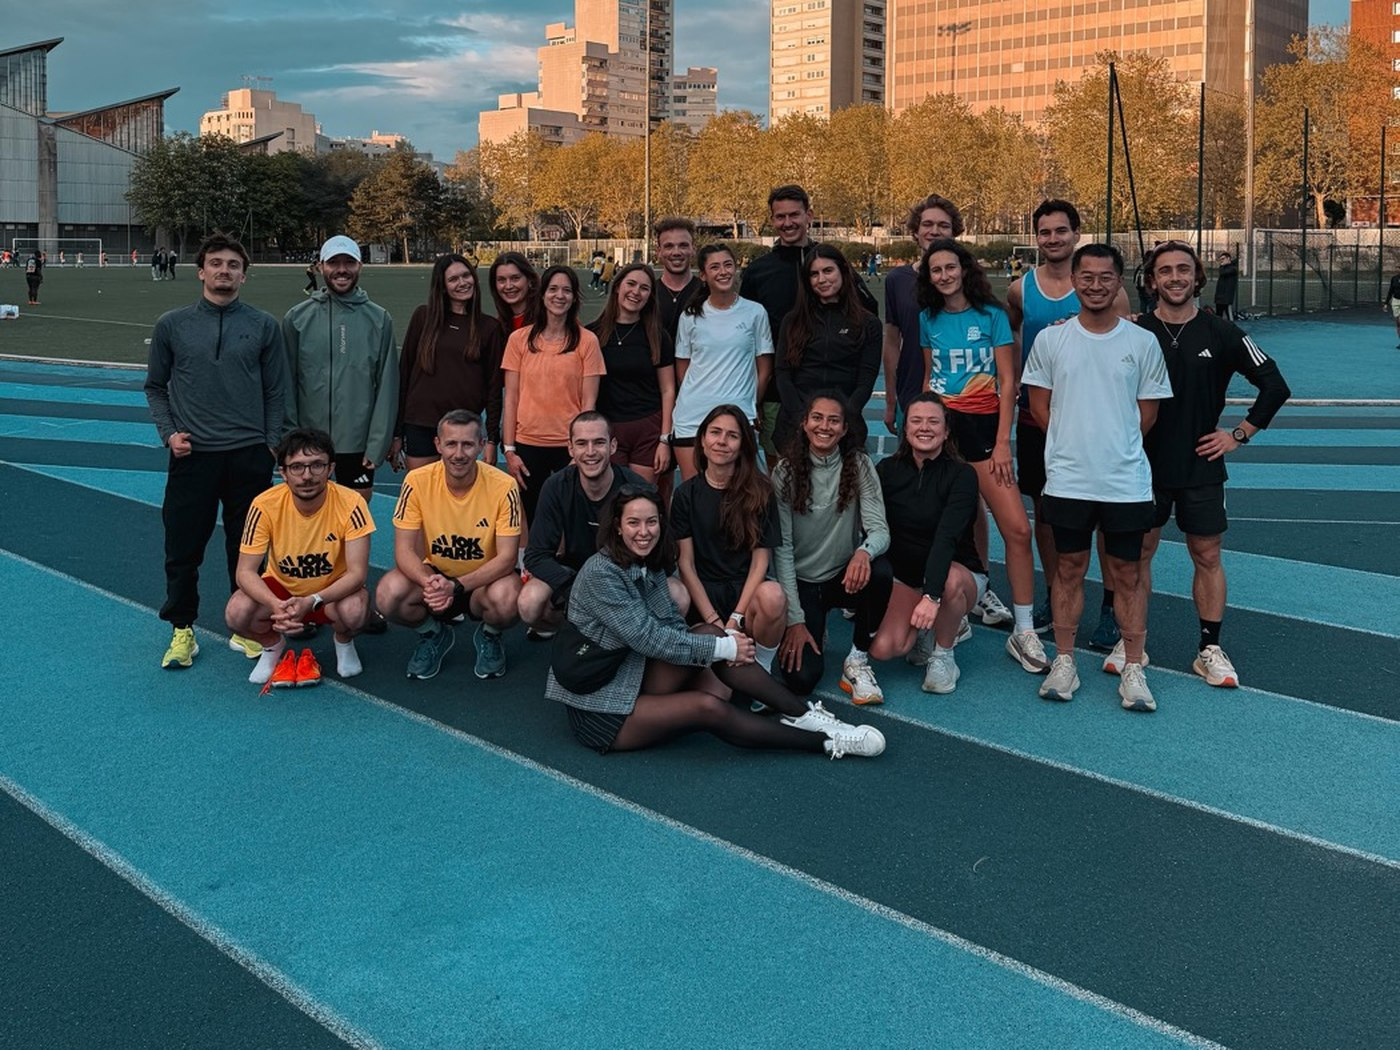
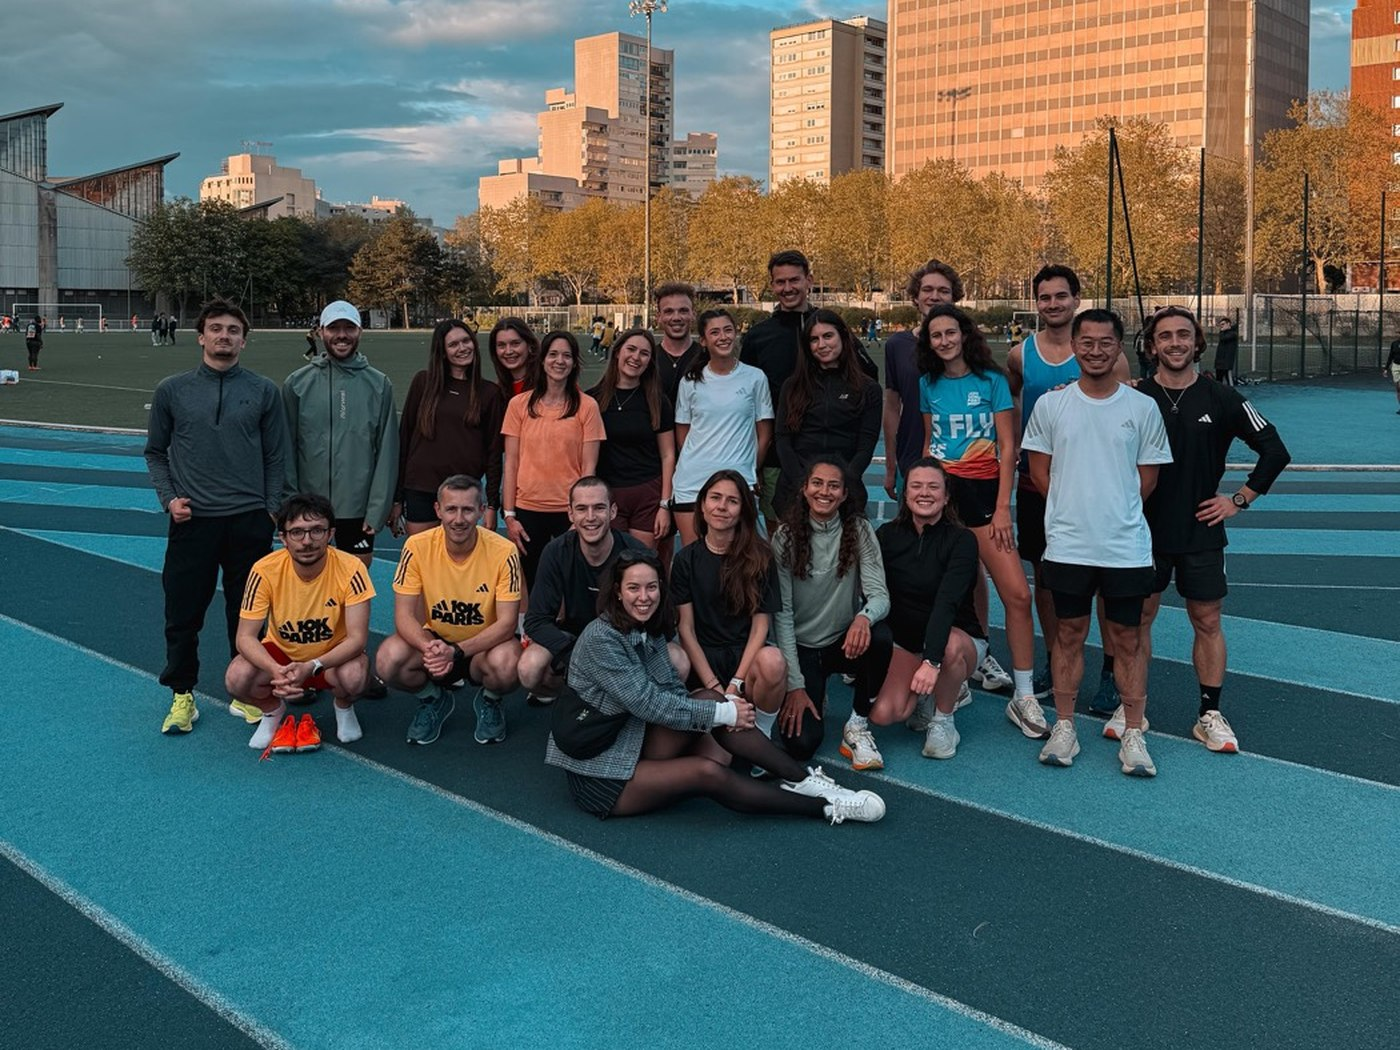
Descend le cadrage de la couverture : le groupe est centré
La fenêtre de recadrage remonte de 49 px dans la photo source, ce qui fait
descendre le groupe dans l'image finale. Il était vers 44% de la hauteur,
il est maintenant au milieu : ciel et immeubles au-dessus, couloirs bleus
en dessous.

Images passées en ?v=2 pour que le nouveau cadrage s'affiche tout de suite,
sans attendre l'expiration du cache navigateur ni celui des réseaux.

diff --git a/article-marathon-bleu.html b/article-marathon-bleu.html
@@ -12,7 +12,7 @@
 <meta property="article:published_time" content="2026-09-20">
 <meta property="og:title" content="42,195 km à 42. En relais.">
 <meta property="og:description" content="La distance mythique découpée en tours de piste, 42 coureurs qui se passent le relais.">
-<meta property="og:image" content="https://cielbleu-runningclub.github.io/CIELBLEU/og-marathon-bleu.jpg">
+<meta property="og:image" content="https://cielbleu-runningclub.github.io/CIELBLEU/og-marathon-bleu.jpg?v=2">
 <meta property="og:image:width" content="1200">
 <meta property="og:image:height" content="630">
 <meta property="og:image:type" content="image/jpeg">
@@ -23,7 +23,7 @@
 <meta name="twitter:card" content="summary_large_image">
 <meta name="twitter:title" content="42,195 km à 42. En relais.">
 <meta name="twitter:description" content="La distance mythique découpée en tours de piste, 42 coureurs qui se passent le relais.">
-<meta name="twitter:image" content="https://cielbleu-runningclub.github.io/CIELBLEU/og-marathon-bleu.jpg">
+<meta name="twitter:image" content="https://cielbleu-runningclub.github.io/CIELBLEU/og-marathon-bleu.jpg?v=2">
 <link rel="icon" type="image/svg+xml" href="favicon.svg">
 <link rel="manifest" href="manifest.webmanifest">
 <script>if("serviceWorker" in navigator){addEventListener("load",function(){navigator.serviceWorker.register("sw.js").catch(function(){})});}</script>
@@ -196,7 +196,7 @@ footer{background:var(--navy-deep);padding:40px 60px;}
 
 <!-- HERO -->
 <header class="art-hero">
-  <img src="marathon-cover.jpg" alt="" class="art-hero-bg" fetchpriority="high">
+  <img src="marathon-cover.jpg?v=2" alt="" class="art-hero-bg" fetchpriority="high">
   <div class="art-hero-inner">
     <div class="art-kicker">
       <span class="tag">Événement</span>
@@ -280,7 +280,7 @@ footer{background:var(--navy-deep);padding:40px 60px;}
 {"@context":"https://schema.org","@type":"NewsArticle",
 "headline":"42,195 km à 42. En relais.",
 "datePublished":"2026-09-20",
-"image":["https://cielbleu-runningclub.github.io/CIELBLEU/og-marathon-bleu.jpg"],
+"image":["https://cielbleu-runningclub.github.io/CIELBLEU/og-marathon-bleu.jpg?v=2"],
 "author":{"@type":"Organization","name":"CIELBLEU Running Club"},
 "publisher":{"@type":"Organization","name":"CIELBLEU Running Club"},
 "mainEntityOfPage":"https://cielbleu-runningclub.github.io/CIELBLEU/article-marathon-bleu.html"}

diff --git a/actualites.html b/actualites.html
@@ -259,7 +259,7 @@ footer{background:var(--navy-deep);padding:40px 60px;}
 
 <a id="back-to-top" href="#" onclick="event.preventDefault();window.scrollTo({top:0,behavior:'smooth'});" aria-label="Retour en haut">↑</a>
 
-<script src="articles.js?v=8"></script>
+<script src="articles.js?v=9"></script>
 <script>
 (function(){
   if(typeof ARTICLES==='undefined'||!ARTICLES.length)return;

diff --git a/articles.js b/articles.js
@@ -9,7 +9,7 @@ const ARTICLES=[
   {
     id:'marathon-bleu',
     url:'article-marathon-bleu.html',
-    cover:'marathon-cover.jpg',
+    cover:'marathon-cover.jpg?v=2',
     coverPos:'center 50%',
     alt:"Les adhérents du CIELBLEU réunis sur la piste bleue du stade",
     tag:'Événement',
